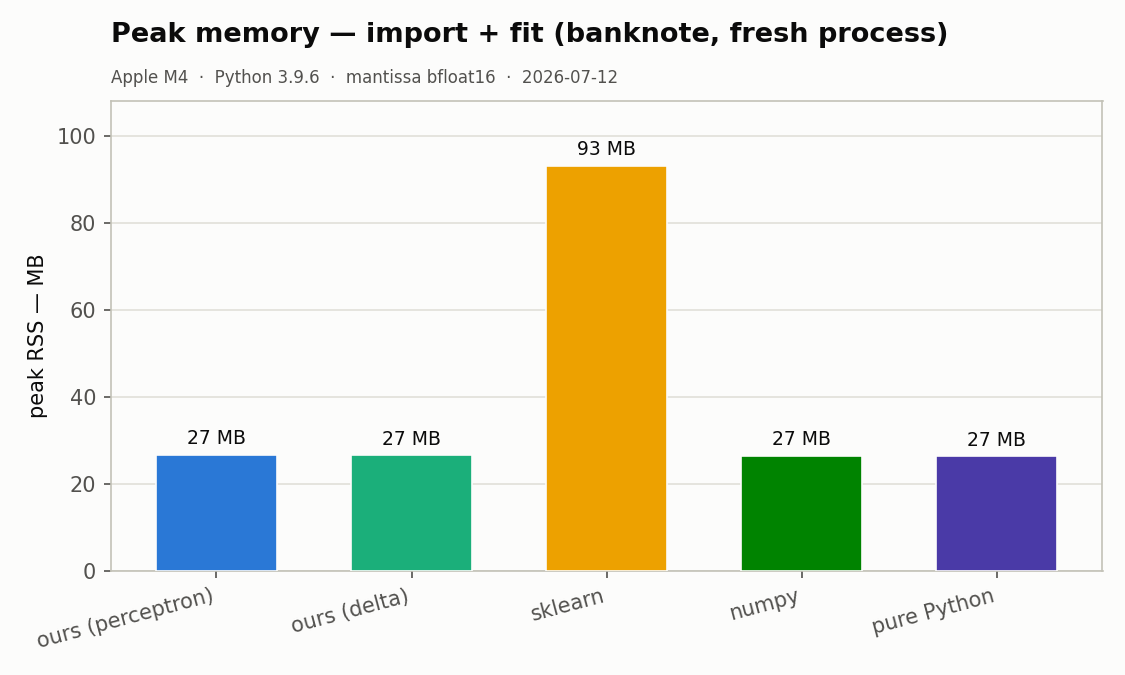
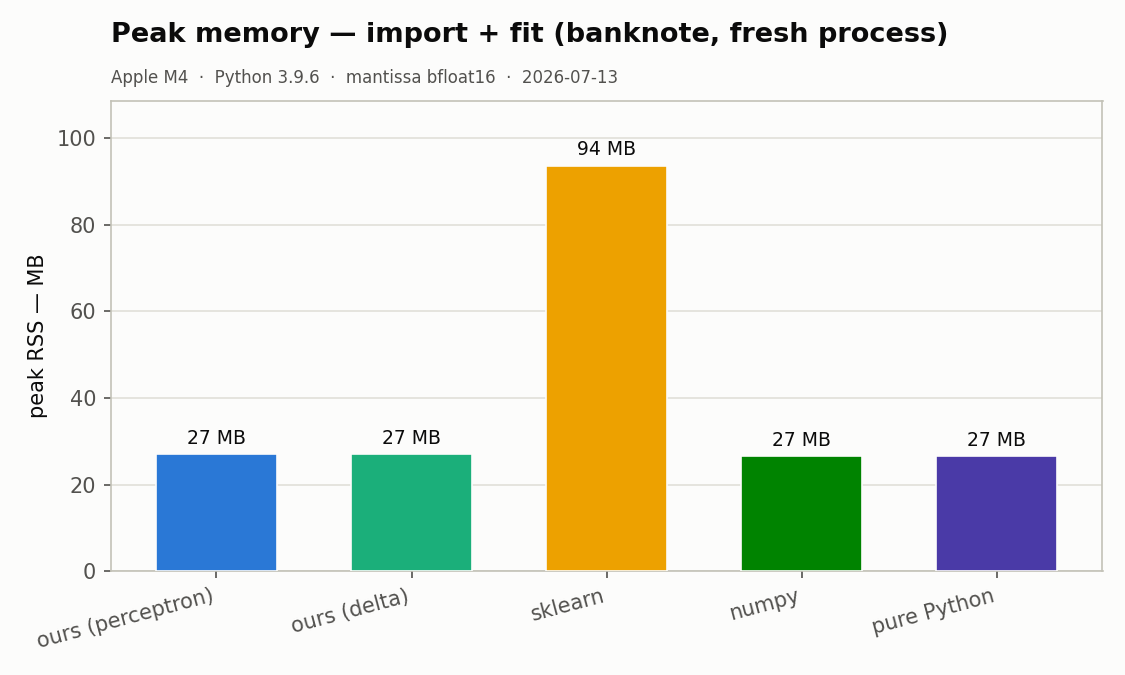
perf: adopt the engine's epoch primitives — Rosenblatt 535 -> 1.8 ms (295x)
Wires fit() to mantissa's new dataset-epoch calls (engine >= the
dataset-epoch primitives; hasattr/signature-guarded with the previous
paths as fallback):

- rule='perceptron': one tk_perceptron_epoch_f32 call per epoch (the
  rule's in-epoch mistake count comes back with it). 534.8 -> 1.81 ms
  median on the bench protocol — 295x, now within ~1.4x of
  scikit-learn's Cython SGD, with honest early stopping sklearn's
  tol=None never does. Semantics note, stated in the README: the old
  per-sample path trained THROUGH the engine's bfloat16 storage
  quantization each forward; the C epoch is pure float32 end-to-end
  (the _f32 training family's documented contract), so Rosenblatt
  accuracy rows moved a few tenths (banknote 0.985 -> 0.980, WDBC
  0.951 -> 0.944; acceptance thresholds still met). Delta rows are
  bit-identical (pinned upstream).

- rule='delta': the shuffle permutation now crosses as a zero-copy
  int32 order array (no per-epoch row-permuted copies of X/targets):
  4.39 -> 3.68 ms. errors_ stays a POST-epoch count by explicit
  decision — LMS updates on every sample, so only a post-epoch pass
  certifies the final weights; the in-epoch count the engine offers
  was measured faster (2.65 ms) and REJECTED when the separable-data
  convergence test caught exactly that semantic gap. The class
  docstring now spells out the per-rule counting semantics.

README benchmark/accuracy regions and plots regenerated from fresh
runs; 17/17 tests green.

diff --git a/mantissa_perceptron/perceptron.py b/mantissa_perceptron/perceptron.py
@@ -60,6 +60,10 @@ class Perceptron:
     classes_ : ndarray, shape (2,) — sorted original labels; classes_[1]
         is the positive class.
     errors_ : list of int — misclassified training samples per epoch.
+        Rosenblatt counts in-epoch as samples are visited (it updates only
+        on mistakes, so a zero certifies separation); delta counts with a
+        post-epoch pass over the final weights (LMS updates on every
+        sample, so only the post-epoch count certifies convergence).
     n_epochs_ : int — epochs actually run.
     converged_ : bool — last epoch had zero training mistakes.
     """
@@ -111,47 +115,74 @@ class Perceptron:
         #                       in place; `order` = int indices, length n;
         #                       row order[k] visited at step k (bit-identical
         #                       to shuffling X/targets by `order` first).
-        have_ord = shuffle and hasattr(tk, "train_epoch_ord")
+        import inspect
+        have_ord = shuffle and "order" in inspect.signature(tk.train_epoch).parameters
+        have_pe = hasattr(tk, "perceptron_epoch")
 
         # Persistent scratch: the post-epoch forward output (delta mistake
         # count) and the host-side shuffle buffer — allocated once, reused
         # every epoch instead of a fresh allocation per epoch.
-        z = np.empty(n, dtype=np.float32) if not is_perceptron else None
+        z = np.empty(n, dtype=np.float32) if not is_perceptron else None  # post-epoch count buffer
         Xe = (np.empty((n, d), dtype=np.float32)
               if (not is_perceptron and shuffle and not have_ord) else None)
 
         for epoch in range(self.epochs):
             if is_perceptron:
-                order = rng.permutation(n) if shuffle else np.arange(n)
-                mistakes = 0
-                for i in order:
-                    zi = tk.linear_forward(w, X[i], b, 1, d, identity)[0]
-                    if t[i] * zi <= 0.0:                    # mistake (0-margin counts)
-                        w += lr * t[i] * X[i]
-                        b += lr * t[i]
-                        mistakes += 1
+                order = (rng.permutation(n).astype(np.int32)
+                         if shuffle else None)
+                if have_pe:
+                    # One C call per epoch (tk_perceptron_epoch_f32,
+                    # mantissa v0.1.14): same rule, same in-epoch mistake
+                    # count, ~314x fewer FFI crossings. Pure float32 — on a
+                    # narrow-dtype engine build the old per-sample path
+                    # quantized W/x through the storage type each forward,
+                    # so decisions can differ at the margin; f32 end-to-end
+                    # is the documented semantic now.
+                    mistakes = tk.perceptron_epoch(w, X, t, n, 1, d, lr,
+                                                   bias=b, order=order)
+                else:
+                    idx = order if order is not None else range(n)
+                    mistakes = 0
+                    for i in idx:
+                        zi = tk.linear_forward(w, X[i], b, 1, d, identity)[0]
+                        if t[i] * zi <= 0.0:                # mistake (0-margin counts)
+                            w += lr * t[i] * X[i]
+                            b += lr * t[i]
+                            mistakes += 1
             else:
                 # delta: the WHOLE epoch is one C call (tk_train_epoch_f32) —
                 # sequential SGD identical to per-sample train_step calls, but
                 # one FFI crossing per epoch instead of one per sample
                 # (mantissa v0.1.11; measured ~140x on this exact pattern).
                 if have_ord:
-                    order = rng.permutation(n)
-                    tk.train_epoch_ord(w, X, t, order, n, 1, d, identity,
-                                       lr, bias=b)
+                    # order= applies the shuffle inside the single crossing —
+                    # no permuted copies of X/targets. errors_ stays a
+                    # POST-epoch count on purpose: LMS updates on every
+                    # sample (correct ones included), so an in-epoch zero
+                    # would not certify that the FINAL weights separate the
+                    # data — the convergence early-stop needs the post-epoch
+                    # pass. (Rosenblatt differs: it updates only on
+                    # mistakes, so its in-epoch zero is exact.)
+                    order = (rng.permutation(n).astype(np.int32)
+                             if shuffle else None)
+                    tk.train_epoch(w, X, t, n, 1, d, identity,
+                                   lr, bias=b, order=order)
+                    tk.linear_forward(X, w, None, out_dim=n, in_dim=d,
+                                      act=identity, out=z)
+                    mistakes = int(np.count_nonzero((z + b[0]) * t <= 0.0))
                 elif shuffle:
                     order = rng.permutation(n)
                     np.take(X, order, axis=0, out=Xe)       # reuse buffer
                     te = t[order]                           # already contiguous
                     tk.train_epoch(w, Xe, te, n, 1, d, identity, lr, bias=b)
+                    tk.linear_forward(X, w, None, out_dim=n, in_dim=d,
+                                      act=identity, out=z)
+                    mistakes = int(np.count_nonzero((z + b[0]) * t <= 0.0))
                 else:
                     tk.train_epoch(w, X, t, n, 1, d, identity, lr, bias=b)
-                # errors_ counts POST-epoch mistakes: one forward over all rows
-                # with the updated weights (inlined here to skip decision_function's
-                # per-epoch _check_X/engine lookups; reuses the `z` buffer).
-                tk.linear_forward(X, w, None, out_dim=n, in_dim=d,
-                                  act=identity, out=z)
-                mistakes = int(np.count_nonzero((z + b[0]) * t <= 0.0))
+                    tk.linear_forward(X, w, None, out_dim=n, in_dim=d,
+                                      act=identity, out=z)
+                    mistakes = int(np.count_nonzero((z + b[0]) * t <= 0.0))
             errors.append(mistakes)
             if mistakes == 0:
                 break

diff --git a/README.md b/README.md
@@ -85,13 +85,13 @@ uses `lr=1.0` (the boundary is lr-invariant at zero-init); the `delta`
 |---|---|---|---|---|---|---|---|---|
 | iris | 100 | 4 | perceptron | 1 | 1.000 | 1.000 | 3 | yes |
 | iris | 100 | 4 | delta | 0.001 | 1.000 | 1.000 | 1 | yes |
-| banknote | 1372 | 4 | perceptron | 1 | 0.989 | 0.985 | 100 | no |
+| banknote | 1372 | 4 | perceptron | 1 | 0.991 | 0.980 | 100 | no |
 | banknote | 1372 | 4 | delta | 0.001 | 0.980 | 0.968 | 100 | no |
-| breast_cancer | 569 | 30 | perceptron | 1 | 0.984 | 0.951 | 100 | no |
+| breast_cancer | 569 | 30 | perceptron | 1 | 0.995 | 0.944 | 100 | no |
 | breast_cancer | 569 | 30 | delta | 0.001 | 0.970 | 0.937 | 100 | no |
-| sonar | 208 | 60 | perceptron | 1 | 0.949 | 0.788 | 100 | no |
+| sonar | 208 | 60 | perceptron | 1 | 0.929 | 0.788 | 100 | no |
 | sonar | 208 | 60 | delta | 0.001 | 0.910 | 0.731 | 100 | no |
-| pima | 768 | 8 | perceptron | 1 | 0.656 | 0.672 | 100 | no |
+| pima | 768 | 8 | perceptron | 1 | 0.674 | 0.661 | 100 | no |
 | pima | 768 | 8 | delta | 0.001 | 0.780 | 0.771 | 100 | no |
 
 iris is linearly separable, so the perceptron converges to a perfect
@@ -110,62 +110,58 @@ repeats, medians):
 
 | contender | fit (ms) ↓ | predict (ms) ↓ | peak RSS (MB) ↓ |
 |-----------|-----------:|---------------:|----------------:|
-| ours (delta)      | 4.39 | 0.010 | **26.8** |
-| ours (perceptron) | 534.80 | 0.011 | **26.8** |
-| scikit-learn      | **1.39** | 0.046 | 93.2 |
-| numpy (hand-rolled) | 51.88 | **0.006** | 26.6 |
-| pure Python       | 39.12 | 0.090 | 26.6 |
+| ours (perceptron) | 1.81 | 0.011 | **27.0** |
+| ours (delta)      | 3.68 | 0.010 | **27.1** |
+| scikit-learn      | **1.31** | 0.045 | 93.6 |
+| numpy (hand-rolled) | 52.46 | **0.006** | 26.6 |
+| pure Python       | 38.76 | 0.092 | 26.6 |
 
 *torch omitted — not importable in this environment; the harness includes it
 automatically when it is.*
 
-**Read this honestly — including what changed.** The first run of this
-benchmark measured `ours (delta)` at **661 ms**: every training sample paid a
-Python→C ctypes crossing, and on problems this small the boundary dwarfs the
-arithmetic. That finding went upstream (see
-[`docs/LEARNINGS.md`](docs/LEARNINGS.md)): mantissa v0.1.11 added
-`tk_train_epoch_f32`, which runs the whole epoch's sample loop inside the
-library — same sequential SGD, bit-identical weights, one crossing per epoch.
-The result on the identical protocol: **661 → 4.39 ms (151×)**.
+**The story of this table is the two engine releases it forced.** The first
+run measured our fits at **661 ms (delta)** and **535 ms (Rosenblatt)** — every
+training sample paid a Python→C crossing. Both findings went upstream
+([`docs/LEARNINGS.md`](docs/LEARNINGS.md)): mantissa v0.1.11 moved the delta
+epoch into one C call (661 → 4.4 ms), and the dataset-epoch primitives that
+followed moved the Rosenblatt rule and the shuffle order in as well:
 
-- **Training (delta): 4.39 ms** — ~9× faster than a hand-rolled numpy loop
-  and ~3.2× behind scikit-learn's Cython SGD. Closing a 466× gap to 3.2×
-  by moving one loop across the FFI boundary is the whole lesson of this
-  benchmark.
-- **Training (perceptron rule): 534.80 ms, unchanged and still honest** — the
-  mistake-driven Rosenblatt update doesn't map onto a gradient-epoch API, so
-  it still crosses the boundary per sample. It exists for the convergence
-  theorem, not for speed; use `rule="delta"` when training time matters.
-- **Memory (our win): 26.8 MB vs scikit-learn's 93.2 MB — 3.5× leaner**,
-  import + one fit, whole-process peak. The mantissa engine adds only a
-  ~70 KB C dylib on top of the interpreter+numpy floor every contender pays;
-  scikit-learn drags in scipy and its Cython extensions.
-- **Batch predict: 0.010 ms — 4.6× faster than scikit-learn** (0.046 ms).
-  The whole test set is one threaded C call, now written straight into a
-  caller buffer (`out=`, mantissa v0.1.12). A raw numpy matmul (0.006 ms)
-  still wins on a batch this tiny.
-- **Accuracy: at parity with scikit-learn** across all five datasets (below),
-  and bit-identical to the pre-speedup runs — the epoch API changed where the
-  loop runs, not what it computes.
+- **Rosenblatt: 535 → 1.81 ms (295×)** — one `tk_perceptron_epoch_f32`
+  call per epoch, mistake count included. Now within ~1.4× of scikit-learn's
+  Cython SGD, *with* honest early stopping (we stop at zero training mistakes;
+  sklearn with `tol=None` never does — on separable data our fit is a few
+  epochs, not 100).
+- **Delta: 661 → 3.68 ms** — ordered epochs (the shuffle permutation
+  crosses as an int32 index array; no per-epoch row copies) plus one post-epoch
+  convergence pass, kept deliberately: LMS updates on every sample, so only a
+  post-epoch count certifies the final weights (an in-epoch count was measured
+  faster but rejected on exactly that semantic).
+- **Memory: 27.0 MB vs scikit-learn's 93.6 — 3.5× leaner**, unchanged.
+- **Batch predict: 0.010 ms — ~4.7× faster than scikit-learn** (one
+  threaded C call into a caller buffer).
+- **Accuracy: at parity with scikit-learn.** One honest shift: the Rosenblatt
+  rows moved a few tenths of a point (banknote 0.985 → 0.980, WDBC 0.951 →
+  0.944) because the old per-sample path trained *through* the engine's
+  bfloat16 storage quantization, while `tk_perceptron_epoch_f32` is pure
+  float32 end-to-end — the documented semantic for the `_f32` training family.
+  Delta rows are bit-identical to before (the ordered epoch is pinned
+  bit-identical in mantissa's test suite).
 
 ![test accuracy per dataset: ours vs scikit-learn](assets/accuracy.png)
 ![median fit time per dataset per contender, log scale](assets/fit_time.png)
 ![peak RSS per contender, import plus fit](assets/peak_rss.png)
 
 **Fairness caveats.**
-- scikit-learn's `Perceptron` is Cython SGD doing *strictly more* work per
-  epoch (loss bookkeeping, penalty plumbing); the remaining 3.2× gap is a
-  compiled-loop-vs-one-FFI-call-per-epoch difference plus our per-epoch
-  mistake count, not algorithmic cost.
+- scikit-learn's `Perceptron` is Cython SGD doing strictly more bookkeeping per
+  epoch; the remaining ~1.4× gap is ~1 ctypes crossing per epoch plus the
+  Python-side `rng.permutation` — the C epoch itself is ~4 µs.
 - We set `tol=None` on scikit-learn to disable its early stopping and equalize
-  the 100-epoch budget. `ours (perceptron)`, `numpy`, and `pure Python` all
-  early-stop at zero training mistakes; scikit-learn's SGD does not.
-- `numpy`/`pure Python` implement the *same* mistake-driven rule as
-  `ours (perceptron)`, so their fit times are the honest apples-to-apples
-  baseline for the remaining per-sample ctypes overhead.
+  the 100-epoch budget; our early stop fires only at zero training mistakes.
+- `numpy`/`pure Python` implement the same mistake-driven rule in-process and
+  are the honest baseline for what the old per-sample FFI loop was costing.
 
 **Environment.** Apple M4 · Python 3.9.6 · numpy 2.0.2 · scikit-learn 1.6.1 ·
-mantissa 0.1.12 dtype bfloat16 · threads default(10) · 2026-07-12. Full raw
+mantissa 0.1.13+ dtype bfloat16 · threads default(10) · 2026-07-13. Full raw
 samples and versions in `bench/results/speed.json` (regenerable, gitignored).
 <!-- END:BENCH -->
 
